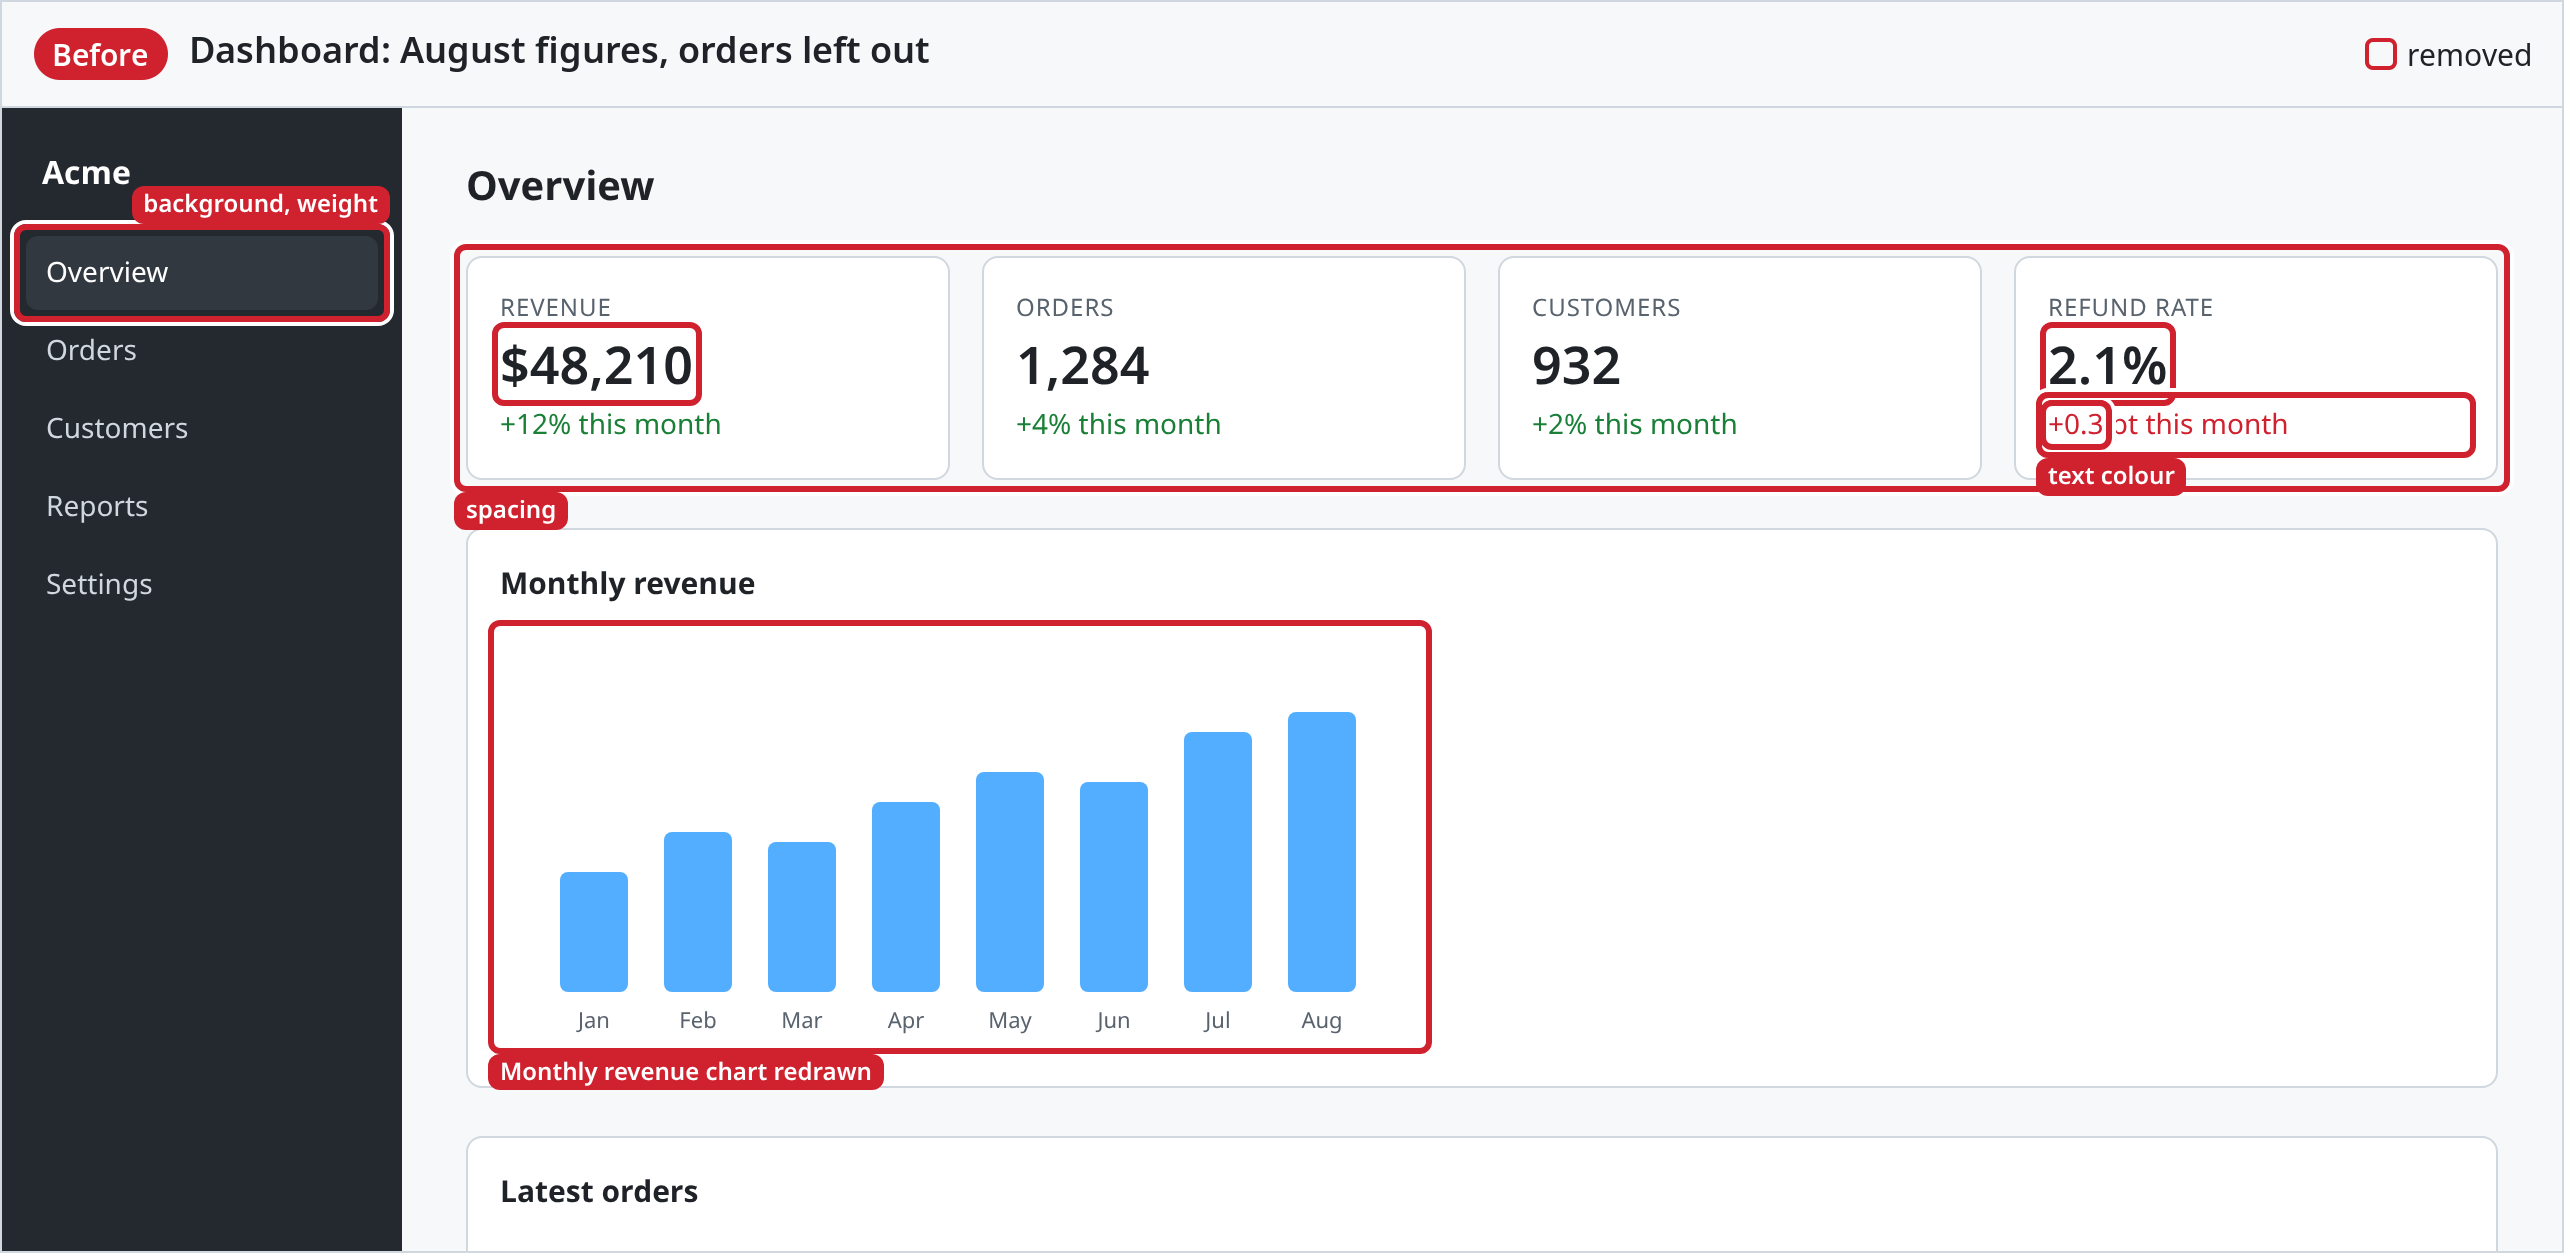
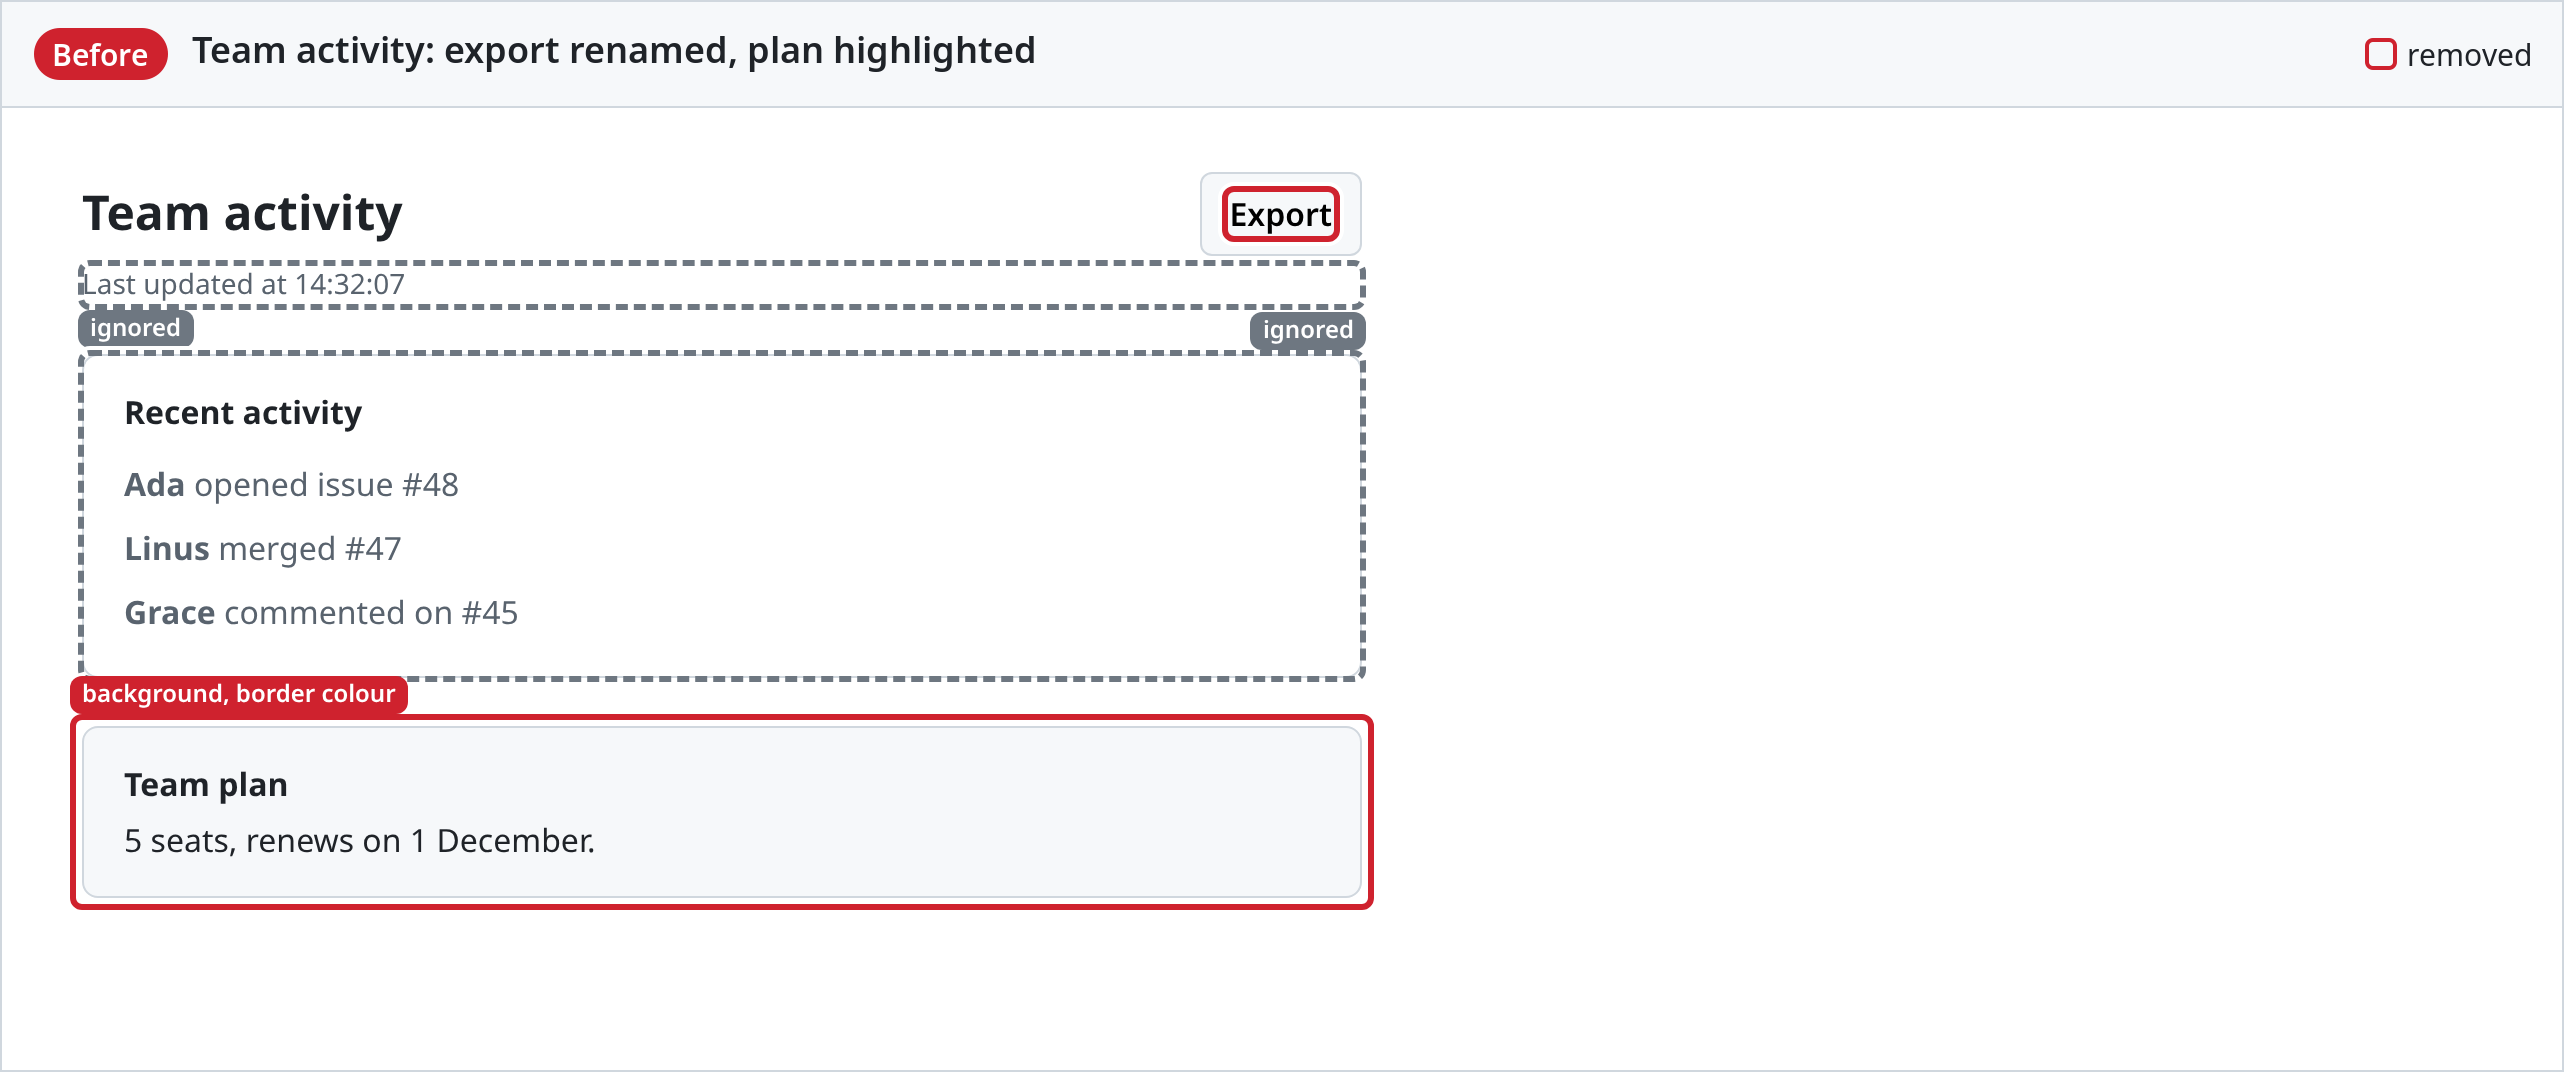
Box the areas --ignore leaves out, in dashed grey
An area left out showed as any part that did not change, so a reader
could not tell a live clock ignored on purpose from one the tool missed.
Each now gets a dashed grey box saying "ignored", drawn under the
changes' marks and close around the area. It is no change: it says
nothing of where the shots go.

The example now uses a page whose last update time and list of recent
activity differ on every load, between a button renamed and a plan
restyled, so the areas left out are in the shot.

diff --git a/src/page/runtime.ts b/src/page/runtime.ts
@@ -47,6 +47,8 @@ export function runtime(properties: string[], ignore: string[] = []) {
   const IMAGE_OUTLINE = { width: 3, offset: 2 };
   const WORD_BOX_MARGIN = { x: 4, y: 3 }; // between a line of changed words and its box
   const SNAP_CLEARANCE = 6; // between a moved shot edge and the line of text it would have cut
+  const IGNORED_COLOR = '#6e7781'; // an area --ignore leaves out: grey, so it reads as no change
+  const IGNORED_MARGIN = 2; // close around it, so areas next to each other keep apart
   const ON_COLOR = '#ffffff'; // a label's words and a box's ring: ON_SIDE_COLOR in side.ts, which this code cannot import
 
   const rangeOf = (token: Token) => {
@@ -523,6 +525,21 @@ export function runtime(properties: string[], ignore: string[] = []) {
     return { ...region, changed: region, inside: true, clipped: false };
   };
 
+  /** A dashed grey box, with "ignored" on it, around each area --ignore leaves out, so a reader can
+   * tell it was left out on purpose, not missed. One inside another is the outer one's; one that
+   * does not show gets none. It is no change: it says nothing of where the shots go. */
+  const drawIgnored = (layer: HTMLElement, taken: Box[]) => {
+    for (const element of ignored) {
+      const inner = [...ignored].some(other => other !== element && inTreeOf(other, element));
+      const rect = element.getBoundingClientRect();
+      if (inner || !rect.width || !rect.height) continue;
+      const box = onPage(grow(pageBox(rect), IGNORED_MARGIN));
+      const boxElement = drawBox(layer, IGNORED_COLOR, box);
+      boxElement.style.borderStyle = 'dashed';
+      drawLabel(boxElement, 'ignored', IGNORED_COLOR, box, taken);
+    }
+  };
+
   /** Where a change of look is on a page that has not its element: at that `edge` of `element`,
    * which is not boxed, or at the top of the page with none. An element `beside` it is taken in
    * whole, so the shot shows what both pages have around the place, not a cut through it. */
@@ -571,6 +588,7 @@ export function runtime(properties: string[], ignore: string[] = []) {
     mark(marks: Marks): Spans {
       marked = true;
       const outlines = outlineImages(marks, tokens);
+      const under = overlay(); // the areas left out, under the changes' marks
       const layer = overlay();
       const removing = (drawn: HTMLElement[]) => drawn.map(element => () => element.remove());
       // In the element's tree, the shadow trees inside it included, wherever layout puts it: an
@@ -598,6 +616,7 @@ export function runtime(properties: string[], ignore: string[] = []) {
         undo.looks.push(removing(drawn));
         return { ...span, inside: inside(element ? [element] : []) };
       });
+      drawIgnored(under, taken);
       return { words, looks };
     },
 

diff --git a/e2e/fixtures/activity/after.html b/e2e/fixtures/activity/after.html
@@ -1,0 +1,20 @@
+<!doctype html><meta charset="utf-8"><title>Team</title>
+<style>
+ * { box-sizing: border-box }
+ body { margin: 0; padding: 32px 40px; width: 720px; font: 16px/1.5 system-ui, sans-serif; color: #1f2328 }
+ .top { display: flex; align-items: center; justify-content: space-between; margin-bottom: 4px }
+ h1 { margin: 0; font-size: 24px }
+ .updated { margin: 0 0 24px; color: #59636e; font-size: 14px }
+ .button { padding: 8px 14px; border: 1px solid #d0d7de; border-radius: 6px; background: #f6f8fa; font: inherit; font-weight: 600 }
+ .activity { margin: 0 0 24px; padding: 16px 20px; border: 1px solid #d0d7de; border-radius: 8px }
+ .activity h2 { margin: 0 0 8px; font-size: 16px }
+ .activity ul { margin: 0; padding: 0; list-style: none }
+ .activity li { padding: 4px 0; color: #59636e }
+ .plan { padding: 16px 20px; border-radius: 8px }
+ .plan h2 { margin: 0 0 4px; font-size: 16px }
+ .plan p { margin: 0 }
+ .plan { background: #ddf4ff; border: 1px solid #54aeff }</style>
+<div class="top"><h1>Team activity</h1><button class="button">Download CSV</button></div>
+<p class="updated">Last updated at 09:05:51</p>
+<section class="activity"><h2>Recent activity</h2><ul><li><b>Margaret</b> closed issue #51</li><li><b>Alan</b> opened issue #52</li><li><b>Ken</b> merged #50</li><li><b>Barbara</b> commented on #49</li></ul></section>
+<section class="plan"><h2>Team plan</h2><p>5 seats, renews on 1 December.</p></section>

diff --git a/e2e/fixtures/activity/before.html b/e2e/fixtures/activity/before.html
@@ -1,0 +1,20 @@
+<!doctype html><meta charset="utf-8"><title>Team</title>
+<style>
+ * { box-sizing: border-box }
+ body { margin: 0; padding: 32px 40px; width: 720px; font: 16px/1.5 system-ui, sans-serif; color: #1f2328 }
+ .top { display: flex; align-items: center; justify-content: space-between; margin-bottom: 4px }
+ h1 { margin: 0; font-size: 24px }
+ .updated { margin: 0 0 24px; color: #59636e; font-size: 14px }
+ .button { padding: 8px 14px; border: 1px solid #d0d7de; border-radius: 6px; background: #f6f8fa; font: inherit; font-weight: 600 }
+ .activity { margin: 0 0 24px; padding: 16px 20px; border: 1px solid #d0d7de; border-radius: 8px }
+ .activity h2 { margin: 0 0 8px; font-size: 16px }
+ .activity ul { margin: 0; padding: 0; list-style: none }
+ .activity li { padding: 4px 0; color: #59636e }
+ .plan { padding: 16px 20px; border-radius: 8px }
+ .plan h2 { margin: 0 0 4px; font-size: 16px }
+ .plan p { margin: 0 }
+ .plan { background: #f6f8fa; border: 1px solid #d0d7de }</style>
+<div class="top"><h1>Team activity</h1><button class="button">Export</button></div>
+<p class="updated">Last updated at 14:32:07</p>
+<section class="activity"><h2>Recent activity</h2><ul><li><b>Ada</b> opened issue #48</li><li><b>Linus</b> merged #47</li><li><b>Grace</b> commented on #45</li></ul></section>
+<section class="plan"><h2>Team plan</h2><p>5 seats, renews on 1 December.</p></section>

diff --git a/examples/generate.ts b/examples/generate.ts
@@ -109,11 +109,11 @@ const EXAMPLES: Example[] = [
   {
     id: 'ignore',
     name: 'Parts of the page left out',
-    title: 'Dashboard: August figures, orders left out',
+    title: 'Team activity: export renamed, plan highlighted',
     shows:
-      'With `--ignore`, the elements named are left out of the comparison: here the table of orders, whose rows are data that differs from one page to the other. The row added and the badge restyled in it are not marked; with nothing else changed below, the shot stops above the table. The rest of the page is compared as usual.',
-    pages: ['dashboard/before.html', 'dashboard/after.html'],
-    options: ['--ignore', 'table'],
+      'With `--ignore`, the elements named are left out of the comparison: here the time of the last update and the list of recent activity, which differ on every load. They get a dashed grey box saying they were ignored, not missed; the button renamed and the plan restyled around them are marked as usual. Without `--ignore`, the time and every name in the list would be boxed.',
+    pages: ['activity/before.html', 'activity/after.html'],
+    options: ['--ignore', '.updated', '--ignore', '.activity'],
   },
   {
     id: 'scroll-area',

diff --git a/src/page/runtime.browser.test.ts b/src/page/runtime.browser.test.ts
@@ -52,6 +52,18 @@ describe('read, with elements ignored', () => {
     expect(p.reading.elements.map(e => e.signature)).toEqual(['P keep']);
     expect(p.reading.ignored).toEqual([2, 0]);
   });
+
+  test('gets a dashed box saying so when the page is marked, one for an area in another', () => {
+    document.body.innerHTML = STYLE + '<p>keep</p><div class="data"><p class="data">12</p></div>';
+    const p = new Function(
+      `return (${runtime.toString()})(${JSON.stringify(PROPS)}, ${JSON.stringify(['.data'])})`,
+    )() as Runtime;
+    p.mark(marks({}));
+    const [box, ...more] = drawn();
+    expect(more).toHaveLength(0);
+    expect(box.style.borderStyle).toBe('dashed');
+    expect(box.textContent).toBe('ignored');
+  });
 });
 
 describe('read', () => {

diff --git a/e2e/images.test.ts b/e2e/images.test.ts
@@ -17,6 +17,12 @@ const CASES: { name: string; before: string; after: string; args?: string[] }[] 
   { name: 'pictures-and-looks', before: 'visual/before/index.html', after: 'visual/after/index.html' },
   { name: 'no-words', before: 'wordless/before.html', after: 'wordless/after.html' },
   { name: 'components', before: 'components/before.html', after: 'components/after.html' },
+  {
+    name: 'ignored',
+    before: 'activity/before.html',
+    after: 'activity/after.html',
+    args: ['--ignore', '.updated', '--ignore', '.activity'],
+  },
   { name: 'dashboard-labels', before: 'dashboard/before.html', after: 'dashboard/after.html' },
   {
     name: 'dashboard-numbers',

diff --git a/examples/README.md b/examples/README.md
@@ -192,16 +192,16 @@ shot-diff: 2 change(s) outside --selector ignored (listed under "ignored" in --j
 
 ## Parts of the page left out
 
-With `--ignore`, the elements named are left out of the comparison: here the table of orders, whose rows are data that differs from one page to the other. The row added and the badge restyled in it are not marked; with nothing else changed below, the shot stops above the table. The rest of the page is compared as usual.
+With `--ignore`, the elements named are left out of the comparison: here the time of the last update and the list of recent activity, which differ on every load. They get a dashed grey box saying they were ignored, not missed; the button renamed and the plan restyled around them are marked as usual. Without `--ignore`, the time and every name in the list would be boxed.
 
 ```sh
-shot-diff "file://$PWD/e2e/fixtures/dashboard/before.html" "file://$PWD/e2e/fixtures/dashboard/after.html" \
-  --title "Dashboard: August figures, orders left out" --ignore table
+shot-diff "file://$PWD/e2e/fixtures/activity/before.html" "file://$PWD/e2e/fixtures/activity/after.html" \
+  --title "Team activity: export renamed, plan highlighted" --ignore .updated --ignore .activity
 ```
 
 ```
-examples/ignore/shot-before.png: 6 part(s) removed
-examples/ignore/shot-after.png: 6 part(s) added
+examples/ignore/shot-before.png: 2 part(s) removed
+examples/ignore/shot-after.png: 2 part(s) added
 ```
 
 | Before | After |

diff --git a/README.md b/README.md
@@ -194,7 +194,7 @@ The same every time, with nobody there:
 | `--wait <ms>` | 300 | wait after loading and clicking |
 | `--interactive` | | open both pages in windows, and shoot them once you have set them up by hand |
 | `--tabs` | | with `--interactive`: one window with both pages as tabs, which you can resize |
-| `--ignore <css>` | | leave these elements, and all inside them, out of the comparison, for parts showing other data (prices, dates, a live counter); repeatable, each selector matching every element it fits; they still show in the shots, unmarked. `--json` says how many each matched on each page |
+| `--ignore <css>` | | leave these elements, and all inside them, out of the comparison, for parts showing other data (prices, dates, a live counter); repeatable, each selector matching every element it fits; they still show in the shots, in a dashed grey box saying "ignored", so a reader can tell they were left out on purpose. `--json` says how many each matched on each page |
 | `--no-words` | | compare no words, for pages whose text differs anyway (random text, other data): only changes of look, and elements added or removed, are marked; elements are paired by what they are, not by what they say |
 | `--markers labels\|numbers` | `labels` | on a box around a change of look: what changed written on it, or a number explained in the band |
 | `--padding <px>` | 80 | room kept around the changes |
